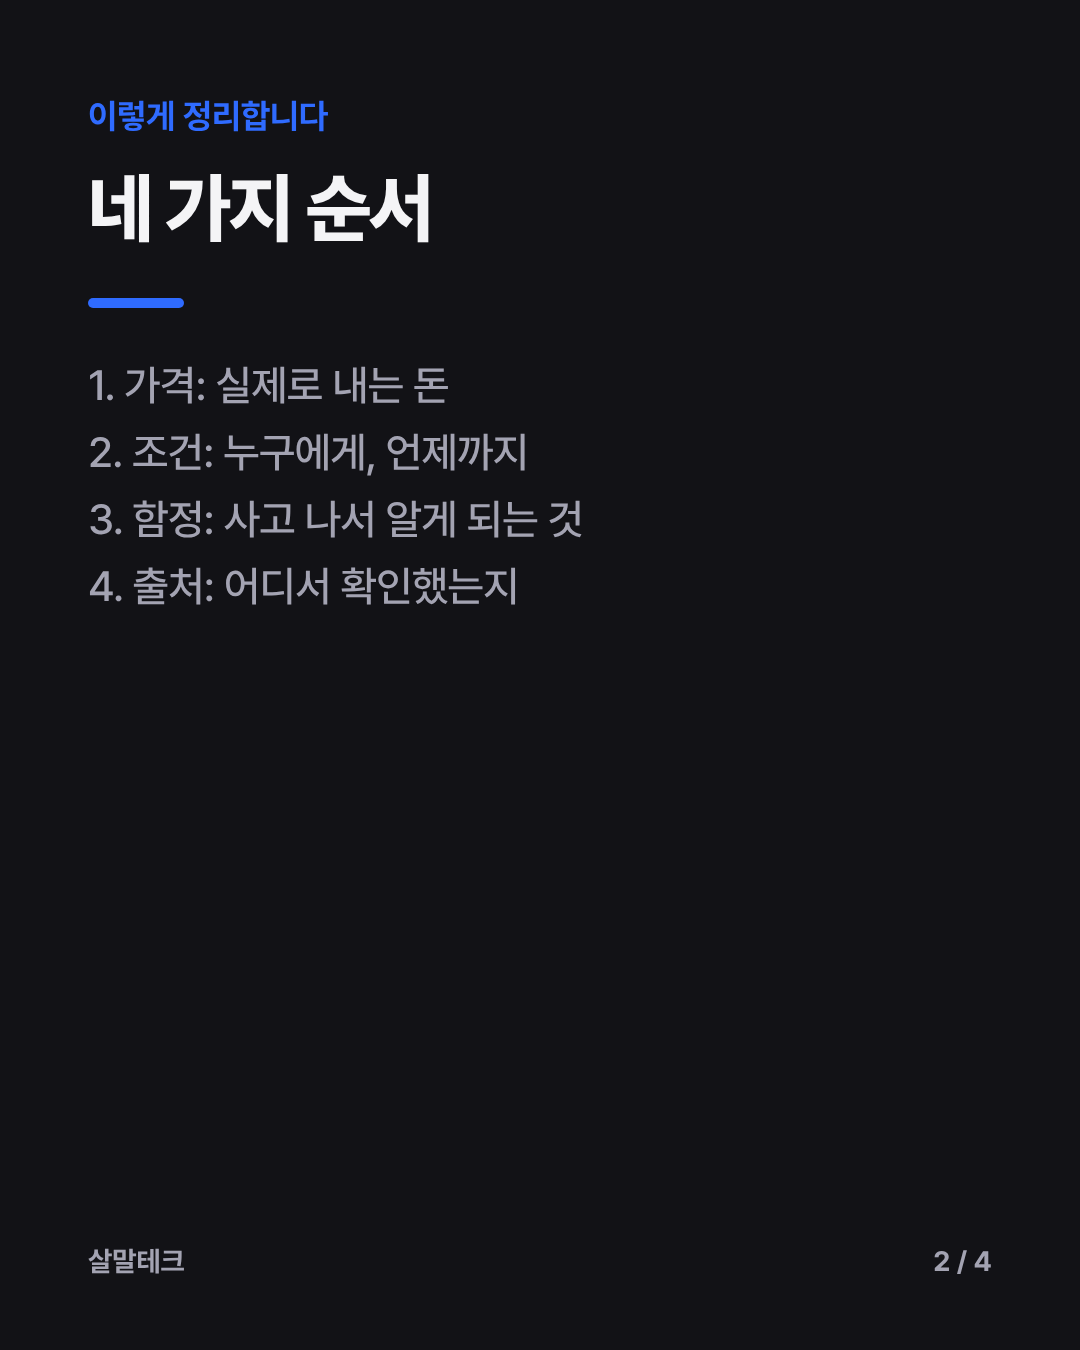
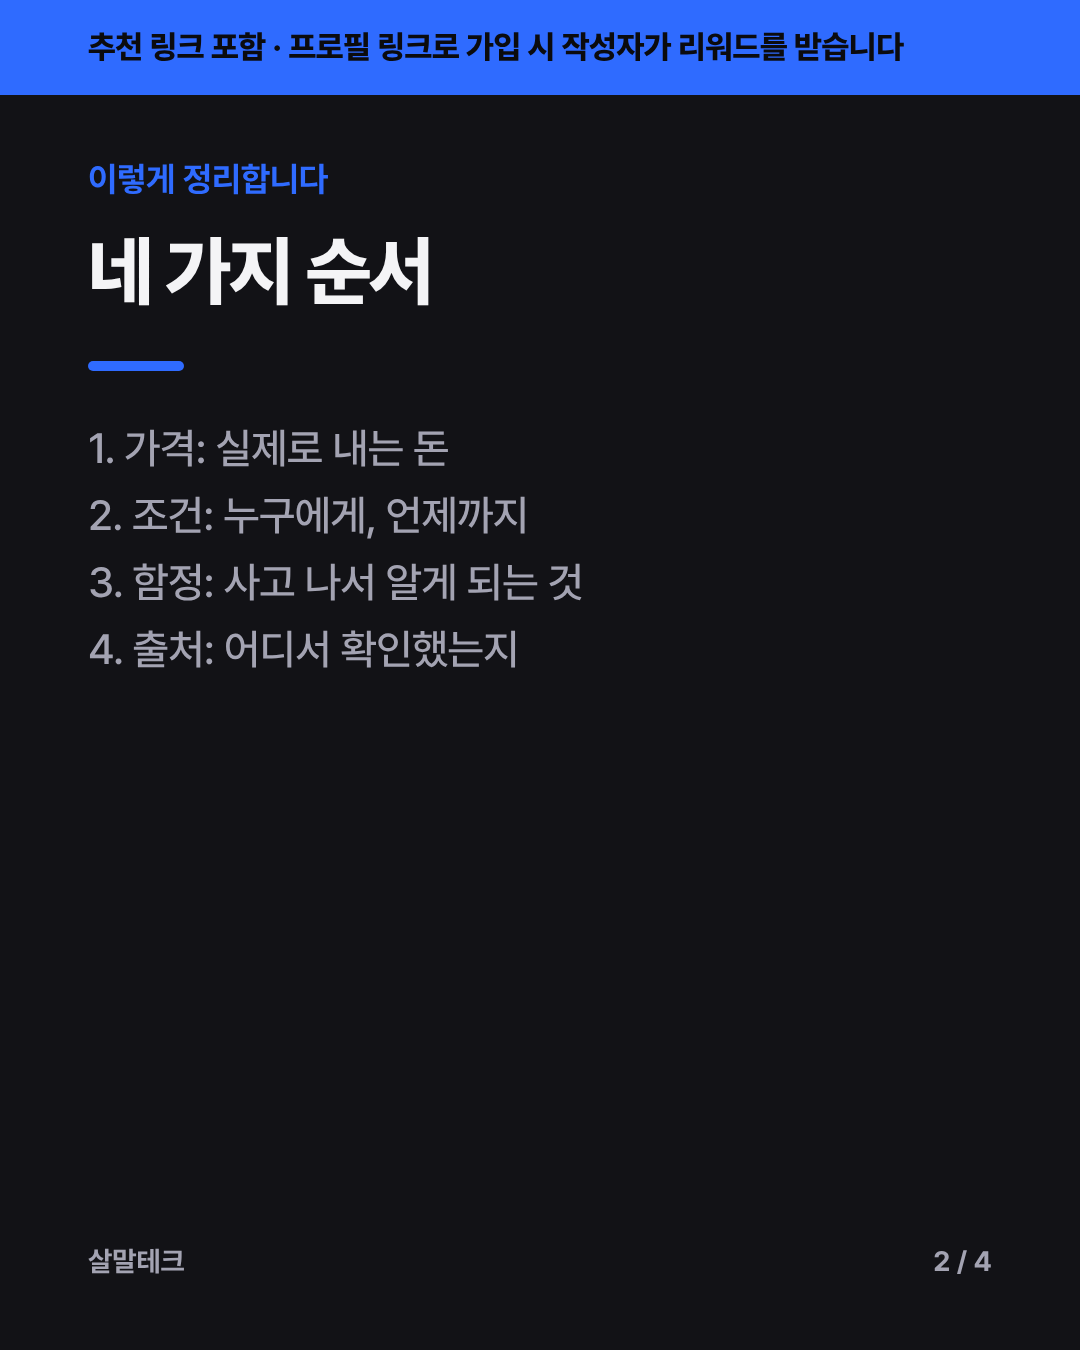
계정 2026-11-18: 소개 게시물·프로필 검수 보류 사항 반영
소개 게시물 첫 줄과 카드에 추천 링크 표시를 넣고 '광고 말고 숫자'를 '느낌 말고 숫자'로 바꿨다.
프로필 소개를 '스타링크 추천 링크'로 확정해 표기하고, 남의 공간 게시 금지와
계정 자체 유료 홍보 금지를 규칙과 체크리스트에 추가했다. 스레드·블로그, 커넥터,
게시 순서 안내를 보강하고 소개 게시물을 재검수에 넘겼다.

Claude-Session: https://claude.ai/code/session_015tx819vuc4pyFPfp6DvgFx

Changed region(s): [[0.0, 0.0, 1.0, 0.4978]]

diff --git a/content/20261118-07/review.md b/content/20261118-07/review.md
@@ -1,0 +1,110 @@
+# 검수: 20261118-07 계정 소개 고정 게시물(살말테크)
+
+- 검수일: 2026-11-18
+- 대상 파일: brief.md, instagram.md, x.md, cards.json, cards/01~04.png
+- 판정: **held**
+
+## 1. 광고 표시: 보류(필수 수정 1건)
+
+- 이 게시물 자체에는 링크가 없다. 하지만 프로필 상단에 고정되고, 그 프로필의 유일한 링크가 스타링크 추천 링크다(`accounts.json`의 `link`). 본문은 "첫 주제는 스타링크"라고 안내한다. 처음 들어온 사람이 이 글을 읽고 바로 프로필 링크를 누르는 구조라서, 작성자의 경제적 이해관계를 이 글에서도 밝혀야 한다(CLAUDE.md 절대 규칙 4, 추천·보증 표시).
+- 게다가 본문은 "추천 링크를 쓸 때는 항상 먼저 밝힌다"고 약속하면서, 이 계정의 링크가 지금 추천 링크라는 사실은 말하지 않는다.
+- **필수 수정:** 인스타그램 캡션과 X 본문의 첫 줄, 카드 1 또는 카드 3에 "프로필 링크는 스타링크 추천 링크입니다. 가입하시면 제가 리워드를 받습니다." 수준의 문장을 넣는다. 카드는 01·02처럼 `notice`를 써도 된다.
+
+## 2. 사실과 약속: 보류(필수 수정 1건, 권고 1건)
+
+약속 문장을 팀 규칙과 대조한 결과:
+
+| 약속 | 근거 규칙 | 판단 |
+|---|---|---|
+| 써보지 않은 건 후기라고 하지 않는다 | `banned_topics` "써보지 않은 사용 후기", CLAUDE.md 3 | 맞음 |
+| 확인 못 한 건 확인 못 했다고 쓴다 | CLAUDE.md 5·7 | 맞음 |
+| 추천 링크를 쓸 때는 항상 먼저 밝힌다 | CLAUDE.md 4, `disclosure` | 규칙과 맞음. 다만 이 글과 프로필이 그 약속을 아직 지키지 않는다(1번, 아래 프로필 항목) |
+| 가격 → 조건 → 함정 → 출처 순서 | 작성 방식에 대한 설명 | 문제 없음 |
+| **"광고 말고 숫자"**(카드 3 제목, 브리프 훅 2) | 해당 규칙 없음. `campaign.json`은 `sponsored: true` | **사실과 다름** |
+
+- **필수 수정:** "광고 말고 숫자"를 바꾼다. 이 계정의 게시물은 추천 리워드라는 대가가 있는 경제적 이해관계 게시물이고, 01·02에도 그래서 표시를 붙였다. "광고가 아니다"라는 말은 그 표시와 충돌하고, 독자에게 이해관계가 없다는 인상을 준다. "과장 말고 숫자", "느낌 말고 숫자"처럼 대가 유무를 말하지 않는 표현으로 바꾼다. 브리프의 훅 2도 같이 고친다.
+- 권고: 카드 4의 "반값 할인 실구매비와 미니 vs 스탠다드부터 정리했어요"는 과거형이다. 체크리스트대로 07을 먼저 올리면 그 시점에는 01·02가 아직 게시 전이고, 01은 `referral_link`가 비어 있어 언제 나갈지 정해지지 않았다. 01·02가 게시된 뒤에 07을 올리거나 "정리해 올려요"로 바꾼다.
+
+## 3. 저작권과 초상권: 문제 없음
+
+카드, 아바타, 헤더 모두 직접 만든 텍스트와 색면이다. 다른 브랜드의 로고나 사진이 없다.
+
+## 4. 조작: 문제 없음
+
+일반인을 가장하거나 후기를 꾸민 부분이 없다. 계정의 성격을 그대로 소개한다.
+
+## 5. 채널 규정: 문제 없음
+
+- 인스타그램 해시태그 4개(#살말테크 #테크정보 #가성비 #스타링크).
+- X 본문은 가중치를 적용해도 280자 안쪽이다. 링크는 없다.
+
+## 6. AI 표시: 해당 없음
+
+생성한 실사형 이미지가 없다.
+
+## 7. 위험 주제: 문제 없음
+
+비방, 혐오, 효능 단정, `banned_topics` 해당 내용이 없다.
+
+## 8. 톤: 문제 없음
+
+친근한 존댓말이다. 과장 없는 정보 정리형이라는 성격이 잘 드러난다("광고 말고"는 2번에서 다룸).
+
+## 고친 뒤
+
+필수 수정 2건(이 글의 추천 링크 표시, "광고 말고 숫자" 교체)이 반영되면 다시 검수한다.
+
+---
+
+# 별도 검토: 계정 프로필(`config/accounts.json`, `brand/`)과 체크리스트(`reports/account-setup.md`)
+
+이 둘은 큐 항목이 아니라서 판정 대신 필수 수정과 권고로 적는다. 필수 수정이 반영되기 전에는 프로필에 추천 링크를 걸지 않는다.
+
+## 프로필 소개의 추천 링크 표시: 필수 수정 1건
+
+- 인스타그램 bio의 "링크에 추천 링크가 포함될 수 있어요(가입 시 제가 리워드를 받아요)"와 X bio의 "프로필 링크에는 추천 링크가 포함될 수 있어요(가입 시 작성자 리워드)"가 걸린다. 지금 이 계정의 링크는 추천 링크 하나뿐인데 "포함될 수 있어요"는 그 사실을 흐린다. 어느 서비스의 추천 링크인지도 없다.
+- **필수 수정:** 링크가 추천 링크인 동안에는 확정형으로, 서비스 이름과 함께 쓴다.
+  - 인스타그램 예: "프로필 링크: 스타링크 추천 링크(가입 시 제가 리워드를 받아요)"
+  - X 예: "프로필 링크는 스타링크 추천 링크예요(가입 시 작성자 리워드)."
+  - 링크가 바뀌면 bio도 같이 바꾼다. 두 bio 모두 바꾼 뒤에도 글자 수 제한(인스타그램 150자, X 160자) 안이다.
+
+## 공식 계정처럼 보이는지: 문제 없음
+
+- 이름 "살말테크"와 마크 "살말?"에는 스타링크나 다른 브랜드의 이름이 없다. 사용자 이름 후보에도 없다(`handle_notes`가 이를 명시).
+- 색은 파랑(#2f6bff)과 거의 검정(#121216)이다. 스타링크의 흑백 워드마크나 로고와 다르다. 아바타와 헤더에 위성, 접시, 로켓 같은 형상도 없다.
+- 카드 4의 "스타링크, 지금 살까?"는 주제로 쓴 말이지 로고 표기가 아니다.
+- 권고: "살말테크"라는 이름의 상표나 계정이 이미 있는지는 이 환경에서 확인하지 못했다. 가입할 때 같은 이름의 계정이 있으면 다른 후보로 바꾼다.
+
+## 체크리스트(`reports/account-setup.md`): 필수 수정 2건, 권고 4건
+
+정확한 것:
+
+- 인스타그램 예약 게시를 하려면 프로페셔널 계정(크리에이터 또는 비즈니스)이어야 한다는 설명은 맞다. Metricool 도움말도 개인 계정은 연결할 수 없다고 한다.
+- 페이스북 페이지를 "도구가 요구하면" 만들라는 조건부 안내도 맞다. Metricool은 예약·게시와 기본 지표만 쓸 때는 인스타그램 로그인으로 직접 연결할 수 있고, 일부 기능에만 페이지 연결이 필요하다고 안내한다.
+- 참고로 크리에이터 계정은 스토리를 자동 게시하지 못하고 알림을 받아 직접 올려야 한다. 피드 게시물과 카드뉴스는 자동 게시된다. 지금 계획에 스토리는 없다.
+
+필수 수정:
+
+1. **"하지 않는 것"에 남의 공간에 링크를 올리지 않는다는 항목이 빠졌다.** `banned_topics`의 첫 항목인 "남의 게시판·댓글·단톡방에 추천 링크 올리기"를 추가한다. 보도된 스타링크 추천 약관(모르는 사람에게 대량으로 뿌리기 금지)과도 직결된다.
+2. **유료 홍보 금지가 게시물에만 걸려 있다.** `accounts.json` 규칙은 "게시물과 **프로필**은 유료로 홍보하지 않는다"인데 체크리스트는 "게시물의 유료 홍보"만 적었다. 프로필 링크가 추천 링크라서 프로필 방문이나 팔로워를 늘리는 광고(인스타그램 "홍보하기", X 팔로워 광고 등)도 추천 링크로 이어지는 유료 광고가 된다. "프로필·계정 자체의 유료 홍보"를 추가한다.
+
+권고:
+
+- 연결: CLAUDE.md 절대 규칙 2는 게시를 "연결된 공식 커넥터"로만 하라고 한다. Metricool 커넥터가 claude.ai 설정에 실제로 있는지는 이 환경에서 확인하지 못했다. 연결한 뒤 `campaign.json`의 `publisher_connector`에 등록해야 채널 매니저가 쓸 수 있다는 점과, 커넥터가 없으면 `approved`에서 멈추고 다른 경로(브라우저 자동화 등)로 올리지 않는다는 점을 한 줄 넣는다.
+- 첫 게시 순서: 07, 01, 02 모두 사용자 일괄 승인(`approval: batch`)을 받아야 게시할 수 있다. 01은 `referral_link`가 비어 있으면 예약할 수 없다. 같은 채널의 게시물은 3시간 이상 띄운다. 이 조건들을 순서 옆에 적는다. 07은 지금 held다.
+- 채널 범위: 01은 네이버 블로그와 스레드에도 나가는데(`campaign.json`의 channels) 체크리스트에는 X와 인스타그램만 있다. 스레드는 새 인스타그램 계정으로 만들 수 있다. 블로그를 어느 계정으로 쓸지와 각 채널의 소개·링크 표시도 정해서 체크리스트에 넣는다.
+- 사용자 이름 후보가 체크리스트와 `accounts.json`에서 다르다(X: `salmaltech`, `salkkamalkka`는 accounts.json에 없다). 한쪽으로 맞춘다. 정한 이름은 `accounts.json`에 기록한다.
+
+---
+
+# 참고: 20261118-01, 20261118-02 카드 하단 표기 변경
+
+- 두 `cards.json`에서 `brand`가 ""에서 "살말테크"로 바뀌었다. `notice`(추천 링크 표시 띠), 본문 텍스트, 수치는 그대로다.
+- 다시 렌더링한 이미지는 01/01.png와 02/05.png를 열어 확인했다. 상단 표시 띠는 그대로 있고 하단에 "살말테크"가 작게 추가됐을 뿐이다. 나머지 장은 열어 보지 않았다.
+- 계정 이름 표기라서 광고 표시, 사실, 사칭 어느 항목에도 영향이 없다. **두 건의 passed 판정은 유지한다.**
+- 앞으로 하단 표기를 사용자 이름(handle)으로 바꿀 때도, 바뀌는 것이 표기뿐이고 표시 띠를 건드리지 않는다면 같은 판단이다.
+
+출처(체크리스트 확인):
+- Metricool, Instagram account type: requirements and how to switch, https://help.metricool.com/instagram-account-type-requirements-and-how-to-switch-d2zw1
+- Metricool, Do I need a Facebook Page to connect Instagram?, https://help.metricool.com/en/article/do-i-need-a-facebook-page-to-connect-instagram-ou39ca
+- Metricool, Schedule and Post on Instagram, https://help.metricool.com/en/article/schedule-and-post-on-instagram-1xovmji/

diff --git a/reports/account-setup.md b/reports/account-setup.md
@@ -22,20 +22,32 @@
 - [ ] 소개: `config/accounts.json`의 `x.bio`
 - [ ] 위치 `대한민국`, 웹사이트 `https://starlink.com?referral=RC-DF-16524681-29887-13`
 
-## 3. 연결 (약 5분)
+## 3. 스레드와 블로그
 
-- [ ] claude.ai 커넥터 설정에서 Metricool 연결 → Metricool에서 위 두 계정 연결
+- [ ] 스레드: 새 인스타그램 계정으로 스레드 프로필 생성. 소개와 링크는 인스타그램과 같게
+- [ ] 네이버 블로그: 쓸 네이버 계정을 정해 알려 주세요. 블로그 소개에도 같은 추천 링크 표시를 넣습니다
+
+## 4. 연결 (약 5분)
+
+- [ ] claude.ai 커넥터 설정에서 Metricool 연결 → Metricool에서 계정 연결
+  - 연결되면 `config/campaign.json`의 `publisher_connector`에 등록해야 팀이 씁니다.
+  - 커넥터가 없는 동안 팀은 `approved`에서 멈춥니다. 브라우저 자동화 같은 다른 경로로 올리지 않습니다.
+    그동안은 `content/<id>/final/`의 최종본을 직접 복사해 올리시면 됩니다.
+- [ ] 같은 이름의 계정이 이미 있으면 다음 후보로 넘어갑니다.
 - [ ] 정한 사용자 이름을 알려 주시면 `config/accounts.json`의 `handle`과 카드 하단 표기를 맞춥니다.
 
-## 4. 첫 게시 순서
+## 5. 첫 게시 순서
 
-1. 계정 소개(20261118-07): 두 채널에 올리고 프로필 상단에 고정
-2. 반값 할인 실구매비(20261118-01): 마감 때문에 가장 먼저
+모든 게시물은 `reports/approval-*.md`에서 승인한 것만 나갑니다. 같은 채널 게시물은 3시간 이상 띄웁니다.
+
+1. 반값 할인 실구매비(20261118-01): 마감(보도 기준 28일) 때문에 가장 먼저
+2. 계정 소개(20261118-07): 01 다음에 올리고 프로필 상단에 고정(재검수 후)
 3. 미니 vs 스탠다드(20261118-02): 다음 날
 
 ## 하지 않는 것
 
+- 남의 게시판, 댓글, 단톡방에 추천 링크나 게시물 올리기
 - 맞팔 품앗이, 팔로워 구매, 자동 팔로우·좋아요, 대량 댓글
 - 같은 사람의 여러 계정으로 서로 띄우기
 - 스타링크 로고·이름을 넣은 프로필(공식 계정처럼 보이면 사칭 신고 대상)
-- 추천 링크가 걸린 게시물의 유료 홍보
+- 추천 링크가 걸린 게시물, 프로필, 계정 자체의 유료 홍보(팔로워 광고, 프로필 방문 광고 포함)

diff --git a/content/20261118-07/brief.md b/content/20261118-07/brief.md
@@ -12,7 +12,7 @@
 ## 훅 후보
 
 1. 살까 말까 고민될 때, 숫자로 정리해 드립니다.
-2. 광고 말고 숫자. 새 기술·서비스 구매 판단 계정입니다.
+2. 느낌 말고 숫자. 새 기술·서비스 구매 판단 계정입니다.
 
 ## 채널별 형식
 
@@ -23,7 +23,8 @@
 
 ## 대상과의 연결
 
-추천 링크는 넣지 않는다. 대신 "추천 링크를 쓸 때는 항상 표시한다"는 약속을 공개한다.
+본문에 링크는 없지만 프로필 링크가 스타링크 추천 링크라서, 첫 줄과 카드 상단에 추천 표시를 한다.
+"추천 링크를 쓸 때는 항상 먼저 밝힌다"는 약속을 이 글부터 지킨다. 광고가 아니라고 말하는 표현은 쓰지 않는다.
 
 ## 근거
 

diff --git a/content/20261118-07/instagram.md b/content/20261118-07/instagram.md
@@ -4,6 +4,8 @@
 
 # 캡션
 
+[추천 링크 포함] 프로필 링크는 스타링크 추천 링크예요. 가입하시면 제가 리워드를 받습니다.
+
 살까 말까 고민될 때, 숫자로 정리해 드리는 계정입니다.
 
 새로 나온 기술과 서비스를
@@ -12,6 +14,6 @@
 써보지 않은 건 후기라고 하지 않고,
 추천 링크를 쓸 때는 항상 먼저 밝힙니다.
 
-첫 주제는 스타링크입니다.
+첫 주제는 스타링크입니다. 반값 할인 실구매비와 미니 vs 스탠다드를 정리해 올려요.
 
 #살말테크 #테크정보 #가성비 #스타링크

diff --git a/content/20261118-07/x.md b/content/20261118-07/x.md
@@ -1,5 +1,7 @@
 # 본문 (프로필 고정)
 
+[추천 링크 포함] 프로필 링크는 스타링크 추천 링크예요(가입 시 작성자 리워드).
+
 살까 말까 고민될 때, 숫자로 정리해 드리는 계정입니다.
 
 새 기술·서비스를 가격 → 조건 → 함정 → 출처 순서로.
